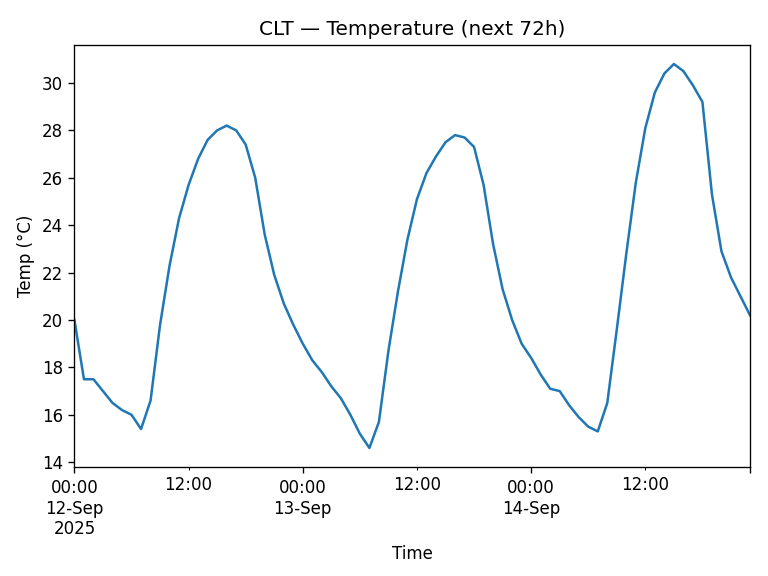
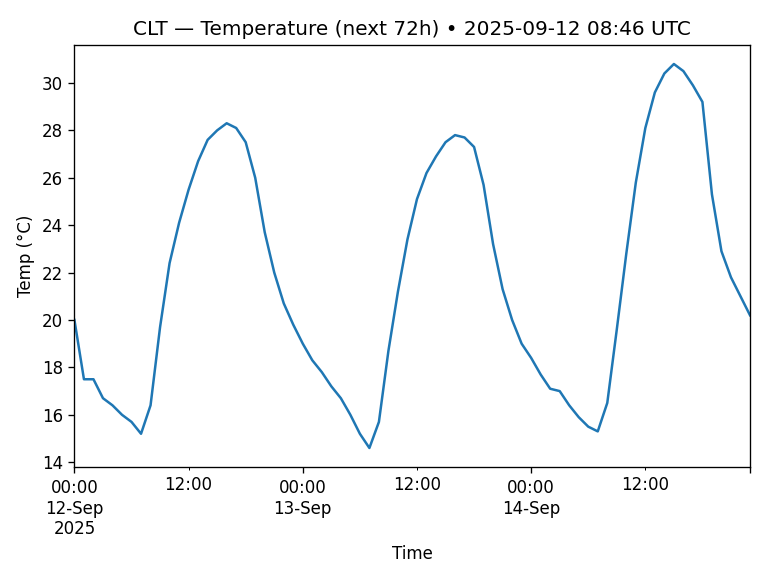
feat(project-001): stamp UTC timestamp into chart title

diff --git a/projects/001-open-meteo-airport-weather/plot_weather.py b/projects/001-open-meteo-airport-weather/plot_weather.py
@@ -31,7 +31,10 @@ df = df.set_index("time")
 
 # plot temperature
 plt.figure()
-df["temperature_2m"].plot(title=f"{airport_code} — Temperature (next 72h)")
+from datetime import datetime, timezone
+stamp = datetime.now(timezone.utc).strftime("%Y-%m-%d %H:%M UTC")
+
+df["temperature_2m"].plot(title=f"{airport_code} — Temperature (next 72h) • {stamp}")
 plt.xlabel("Time")
 plt.ylabel("Temp (°C)")
 plt.tight_layout()
